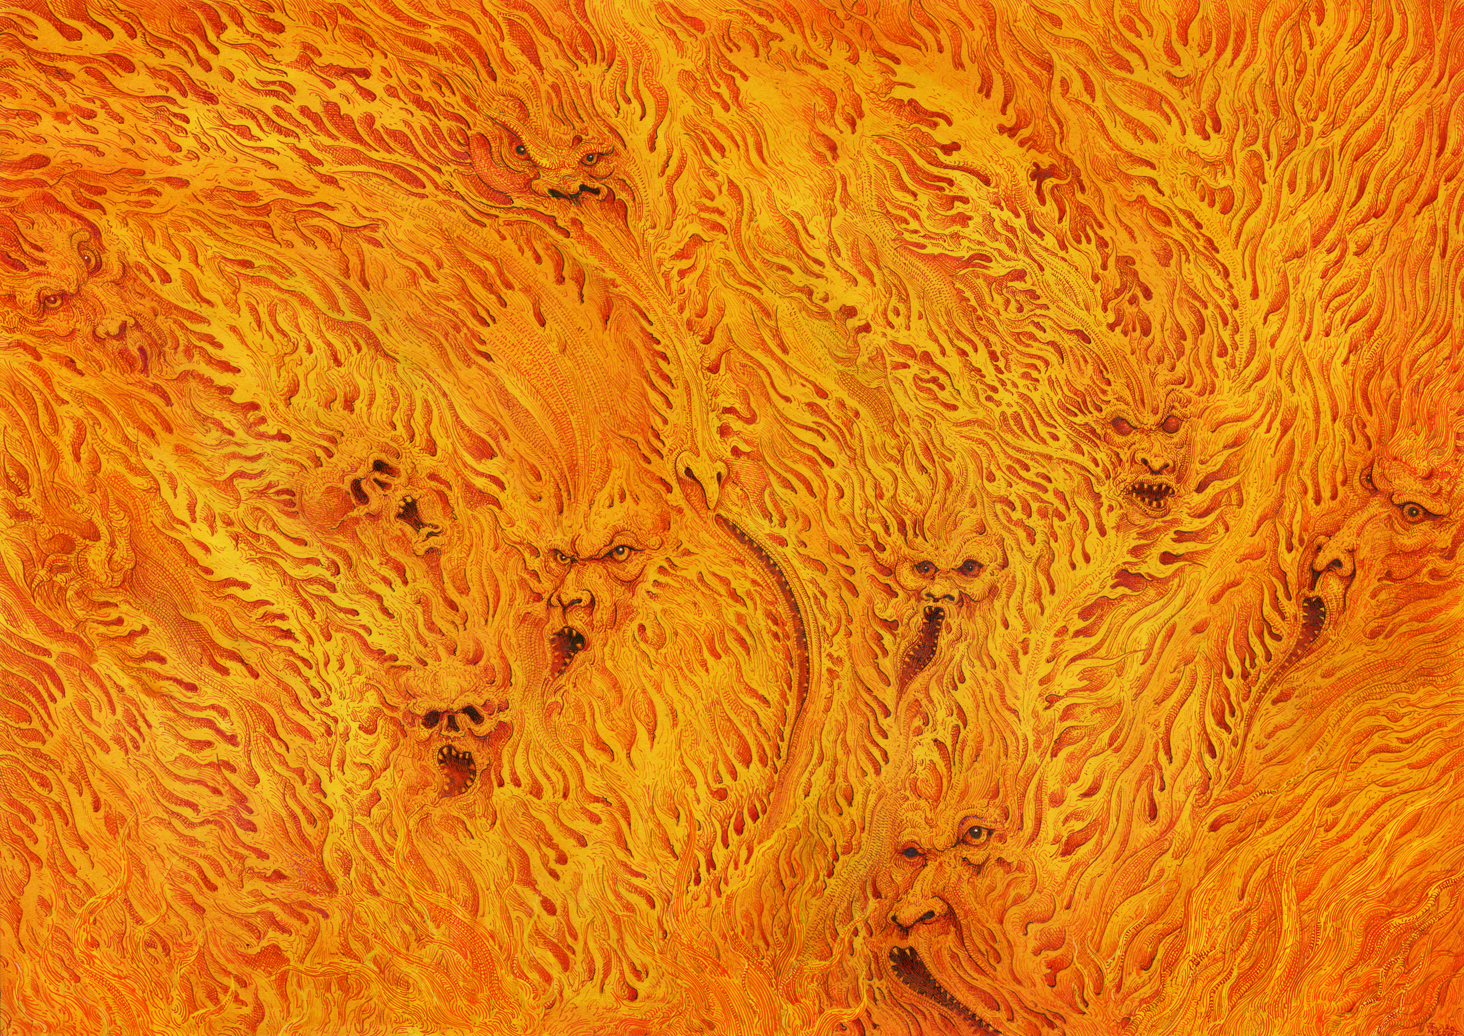
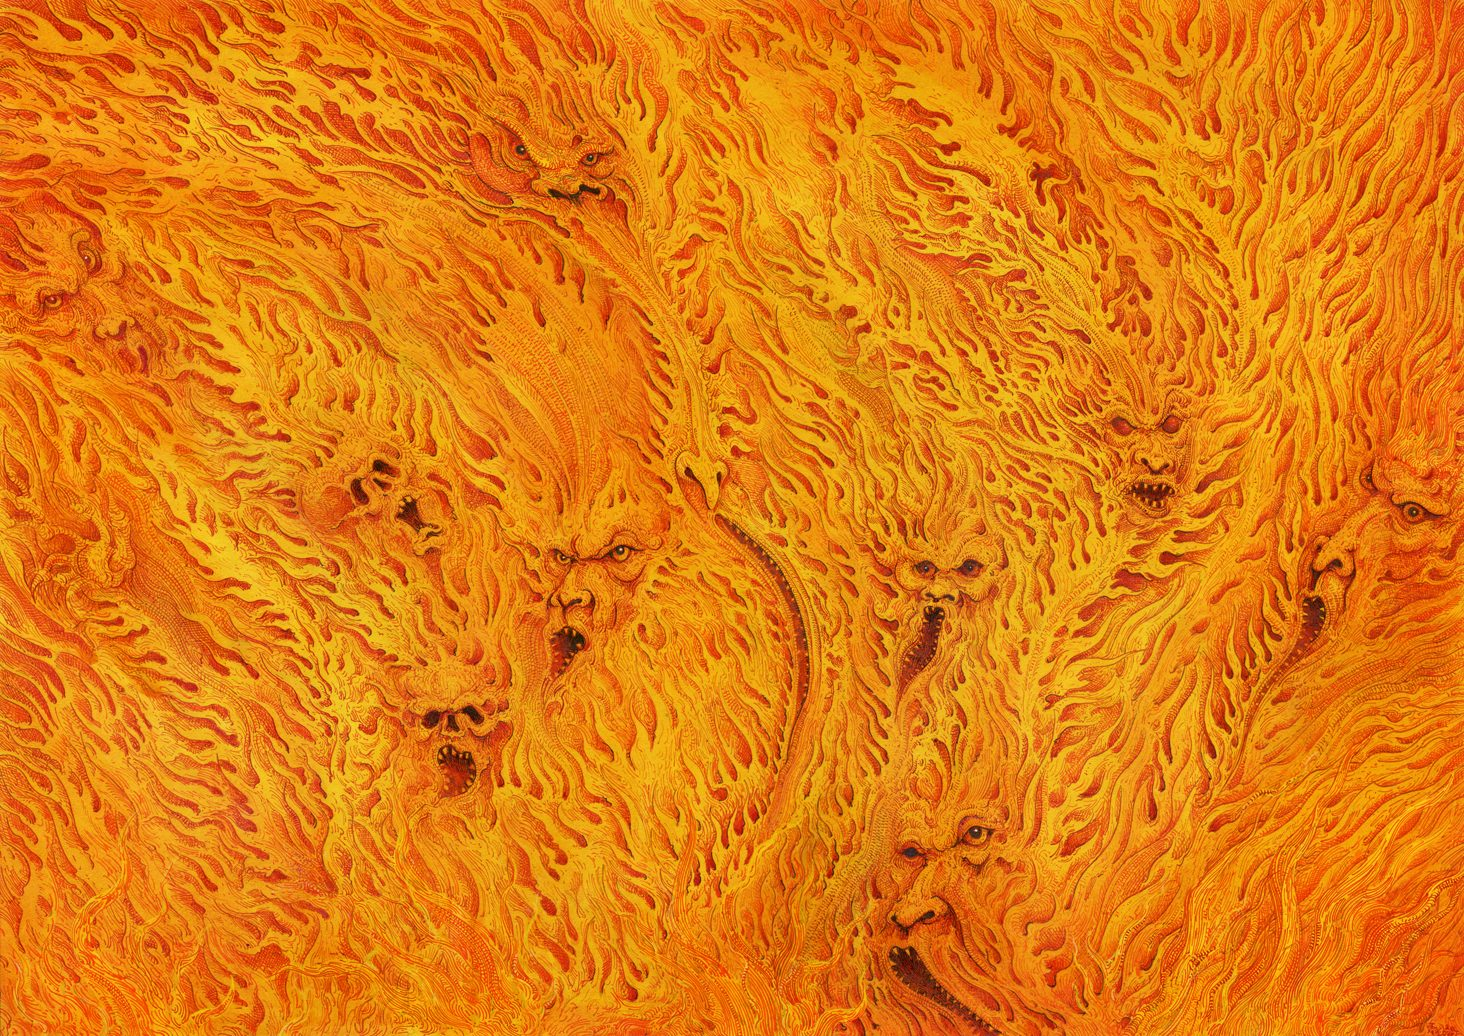
Fix the hero image streaming in top-down
The hero was a 2.88MB baseline JPEG still carrying its Photoshop,
EXIF and XMP metadata. Baseline JPEGs paint scanline by scanline, so
on any connection slower than local it visibly wiped down the page
while the bytes arrived.

Re-encoded progressive at quality 82 with metadata stripped: 2.88MB
to 509KB, an 82% cut with no visible loss in the linework. Progressive
also changes the failure mode - a slow load now resolves whole-frame
from soft to sharp rather than rolling down.

Marked fetchpriority="high" so it isn't queued behind the fonts,
Leaflet and the sheet requests, and given width/height so its box is
known before it arrives. The src is versioned so returning visitors
get the light file rather than keeping the 2.88MB one cached.

diff --git a/index.html b/index.html
@@ -50,7 +50,8 @@
 
 <!-- HERO -->
 <header class="masthead" id="top">
-  <img class="masthead-art" src="project/assets/river-of-flame.jpg" alt="" aria-hidden="true">
+  <img class="masthead-art" src="project/assets/river-of-flame.jpg?v=2" alt="" aria-hidden="true"
+       width="1464" height="1036" fetchpriority="high" decoding="async">
   <div class="masthead-scrim" aria-hidden="true"></div>
   <div class="masthead-inner">
     <h1 class="masthead-title">The realm Down Under gathers&nbsp;here.</h1>
